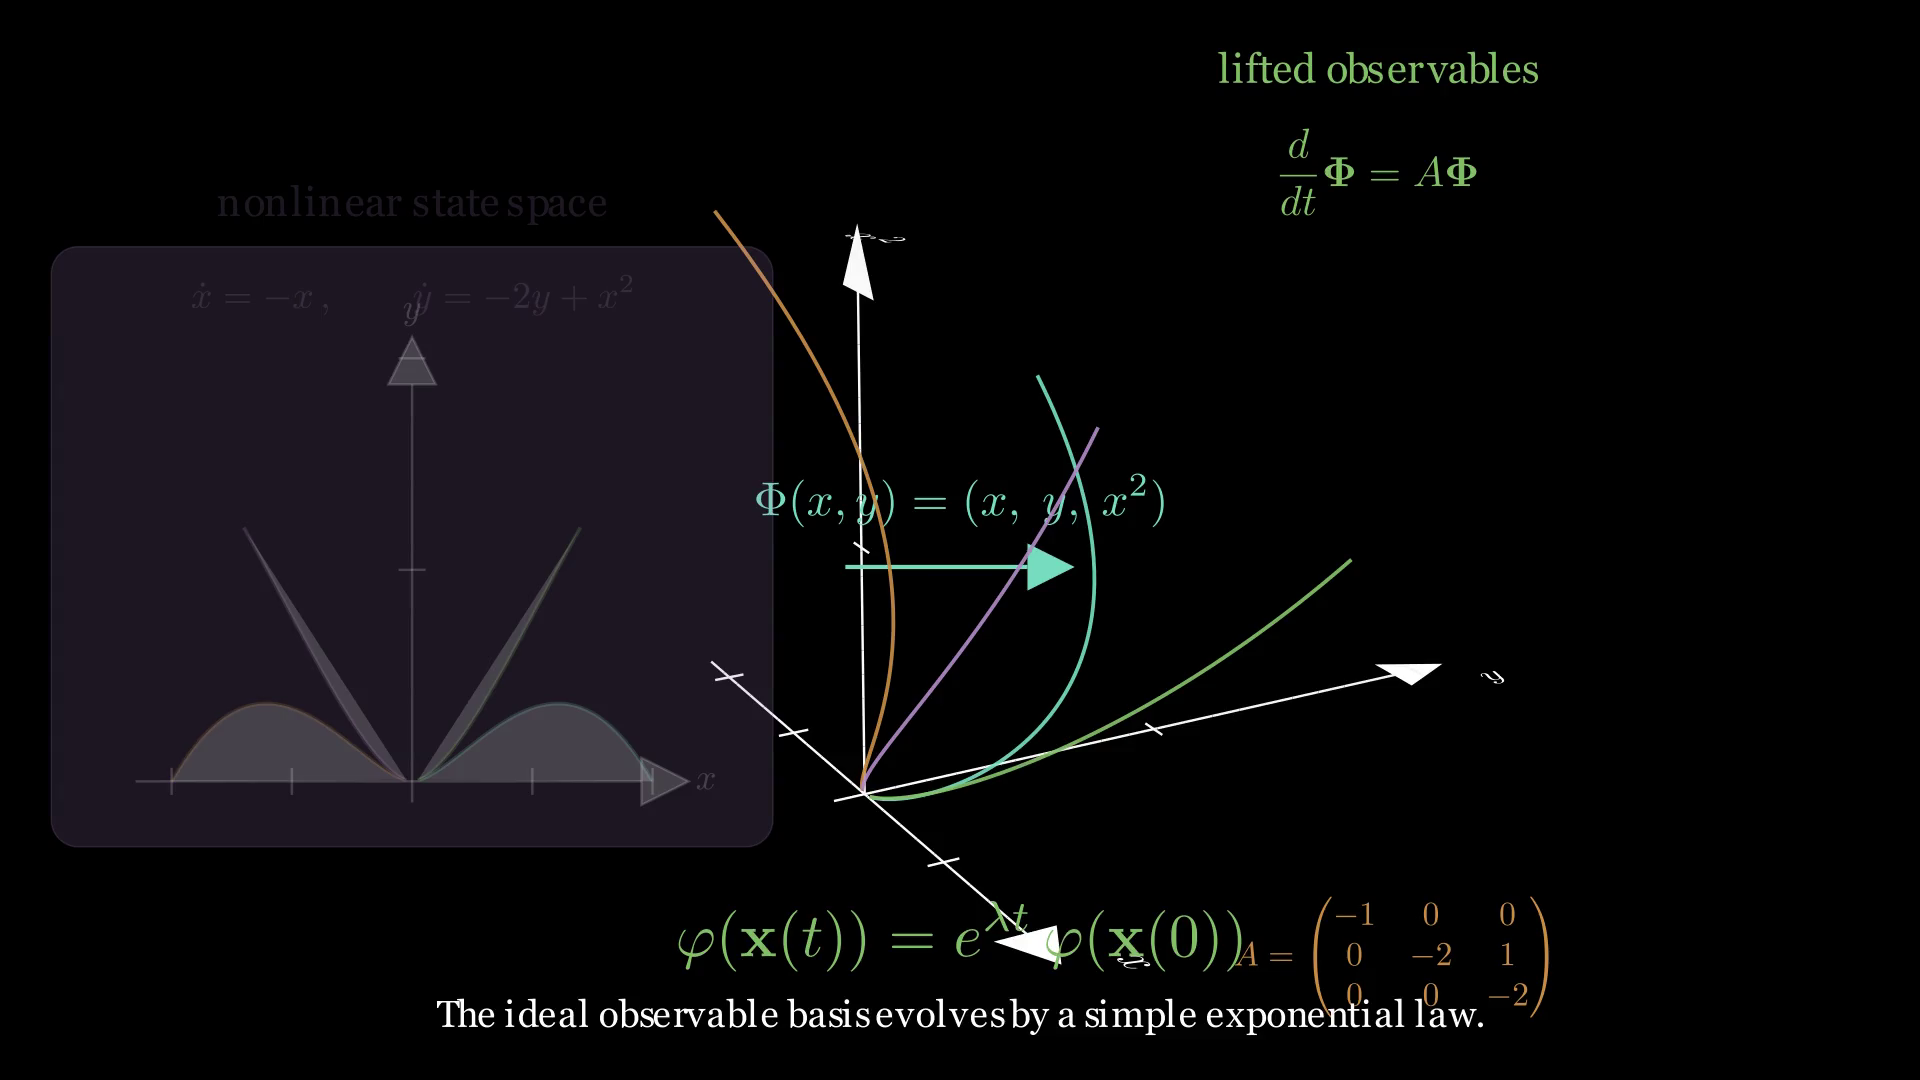
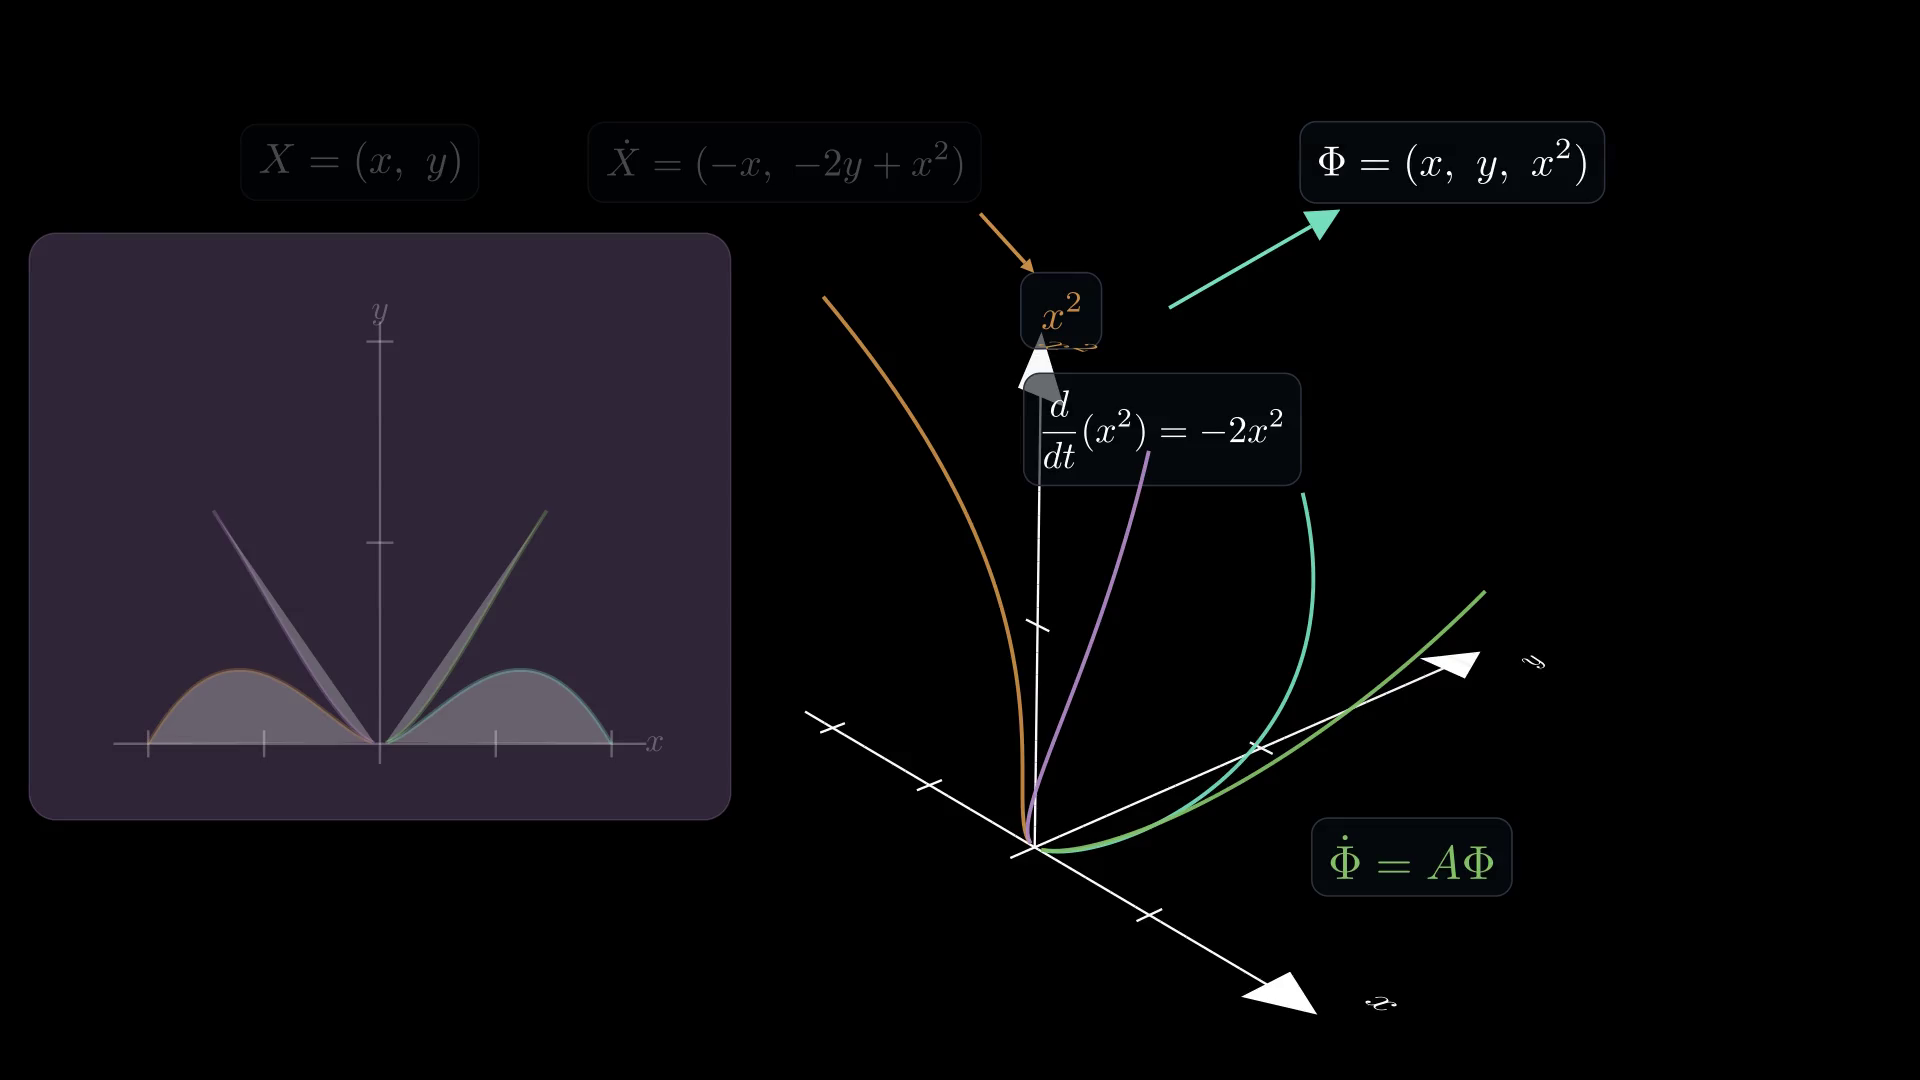
Polish dynamics deck closing slides

diff --git a/talks/dynamics-as-computation/index.html b/talks/dynamics-as-computation/index.html
@@ -87,10 +87,11 @@
         <p class="talk-deck-summary">
           The talk opens on the title question, then moves into a concrete neuromorphic motivation before building through the tension
           between smooth dynamical evolution and discrete computation, reservoir dynamics, Koopman and KvN operator pictures, quantum
-          signatures such as quasiprobability, and finally optimisation problems encoded into Hamiltonian ground states.
+          signatures such as quasiprobability, optimisation problems encoded into Hamiltonian ground states, and a final unified picture
+          of physical law as computational structure before closing with links back to the website.
         </p>
         <div class="talk-deck-meta">
-          <span>18 slides</span>
+          <span>20 slides</span>
           <span>Reservoirs</span>
           <span>Quantum structure</span>
           <span>Ground states</span>
@@ -101,7 +102,7 @@
         <aside class="talks-deck-sidebar" aria-label="Slide navigation">
           <div class="deck-sidebar-head">
             <span class="deck-kicker">Slide rail</span>
-            <span class="deck-counter" data-deck-counter>01 / 18</span>
+            <span class="deck-counter" data-deck-counter>01 / 20</span>
           </div>
           <div class="deck-rail" data-deck-rail></div>
         </aside>
@@ -126,7 +127,7 @@
                 <h2 data-deck-title>Dynamics as Computation</h2>
                 <ul class="deck-bullets" data-deck-bullets></ul>
                 <div class="deck-slide-notes">
-                  <span data-deck-counter>01 / 18</span>
+                  <span data-deck-counter>01 / 20</span>
                 </div>
               </div>
 
@@ -218,13 +219,13 @@
       "section": "Opening",
       "title": "The Algebraic Paradigm",
       "bullets": [
-        "Modern learning is often just a linear readout acting on a rich representation: y_hat = W phi(x).",
-        "Once phi(x) is available, fitting W is basically linear algebra.",
-        "The real question is how a physical system can generate phi(x) in the first place."
+        "Modern statistical learning reduces to a linear map on a rich feature representation: y_hat = W phi(x).",
+        "The feature map phi carries all the structure; the readout W is solved by linear algebra alone.",
+        "This framework dominates machine intelligence, but says nothing about how phi is generated."
       ],
       "video": "/assets/talks/dynamics-as-computation/videos/03_s03_algebraic_paradigm.mp4",
       "poster": "/assets/talks/dynamics-as-computation/posters/03_s03_algebraic_paradigm.png",
-      "caption": "Feature map, linear readout, and the question of where representation comes from"
+      "caption": "The algebraic core of statistical learning, and the question dynamics will answer"
     },
     {
       "slug": "nonlinearity-versus-dimension",
@@ -270,13 +271,13 @@
       "section": "Lifts",
       "title": "Linearising Dynamics",
       "bullets": [
-        "A nonlinear system can become linear after lifting state into the right observable coordinates.",
-        "In this toy example, Phi = (x, y, x^2) closes exactly, so d/dt Phi = A Phi.",
-        "Koopman eigenfunctions are the ideal limit: each observable evolves by a simple exponential."
+        "Differentiate the state.",
+        "New monomials appear.",
+        "Add observables until the lift closes."
       ],
       "video": "/assets/talks/dynamics-as-computation/videos/05_s05_linearising_dynamics.mp4",
       "poster": "/assets/talks/dynamics-as-computation/posters/05_s05_linearising_dynamics.png",
-      "caption": "A nonlinear phase portrait becomes linear after the right observable lift"
+      "caption": "Carleman lift: enlarge coordinates until the dynamics becomes linear"
     },
     {
       "slug": "koopman-linearisation",
@@ -407,6 +408,30 @@
       "video": "/assets/talks/dynamics-as-computation/videos/18_s15_staircase.mp4",
       "poster": "/assets/talks/dynamics-as-computation/posters/18_s15_staircase.png",
       "caption": "Tau sharpens the filter while lambda scans the spectrum"
+    },
+    {
+      "slug": "one-substrate",
+      "section": "Summary",
+      "title": "One Substrate",
+      "bullets": [
+        "Operator lifts make dynamics legible as computation.",
+        "Physical law already carries the limits and efficient principles."
+      ],
+      "video": "/assets/talks/dynamics-as-computation/videos/19_s16_unified_picture.mp4",
+      "poster": "/assets/talks/dynamics-as-computation/posters/19_s16_unified_picture.png",
+      "caption": "One mathematical substrate links dynamics, computation, and optimisation"
+    },
+    {
+      "slug": "thank-you",
+      "section": "Closing",
+      "title": "Thank You",
+      "bullets": [
+        "Talk + slides: gmccaul.co.uk/talks/dynamics-as-computation/",
+        "Writing: Spanspermia via gmccaul.co.uk/writing.html"
+      ],
+      "video": "/assets/talks/dynamics-as-computation/videos/20_s17_thank_you.mp4",
+      "poster": "/assets/talks/dynamics-as-computation/posters/20_s17_thank_you.png",
+      "caption": "Talk, slides, and writing all live on gmccaul.co.uk"
     }
   ]
   </script>